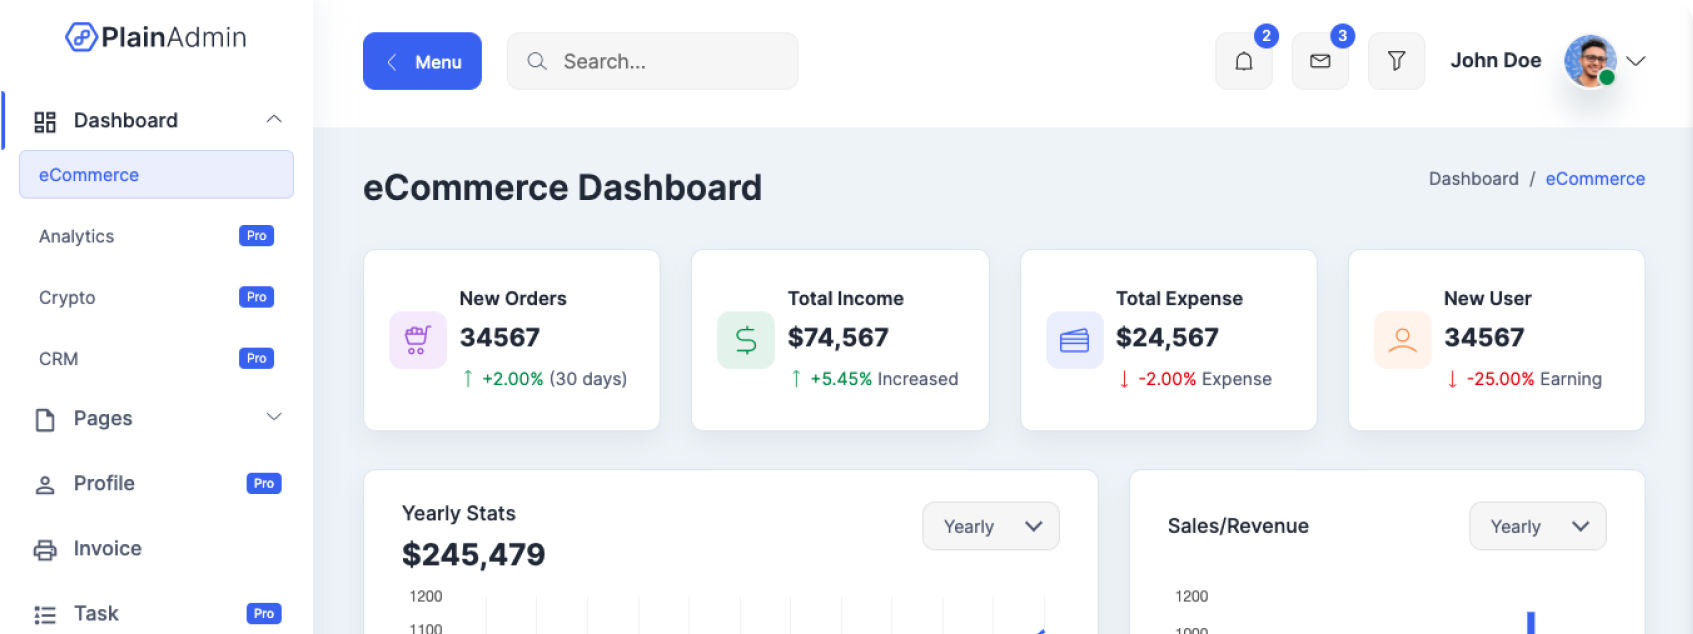
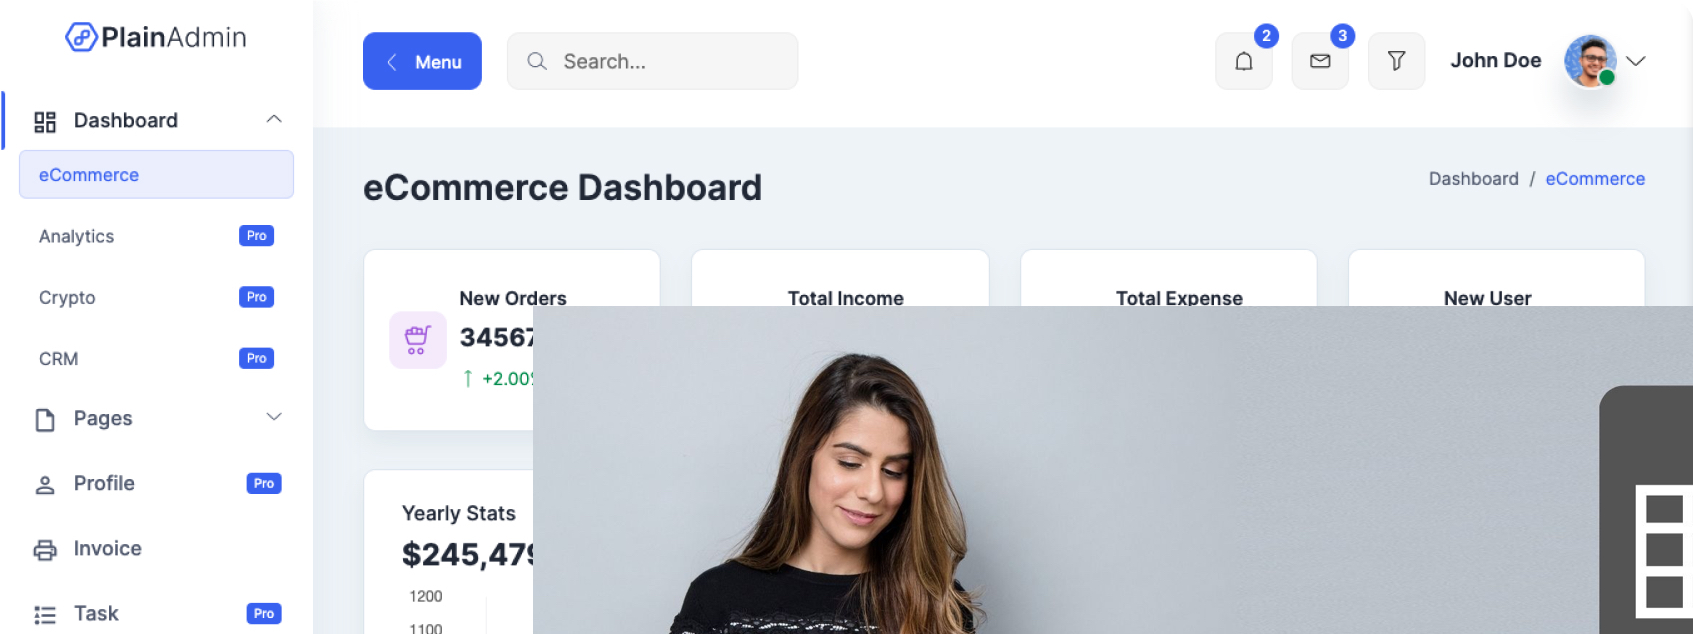
hero

diff --git a/index.html b/index.html
@@ -252,7 +252,7 @@
             >
               <div class="mt-16">
                 <img
-                  src="assets/images/hero/hero-image.jpg"
+                  src="assets/images/hero/hero-image.gif"
                   alt="hero"
                   class="mx-auto max-w-full rounded-t-xl rounded-tr-xl"
                 />
@@ -4832,10 +4832,10 @@
               <ul>
                 <li>
                   <a
-                    href="javascript:void(0)"
+                    href="https://www.taskstore.in/"
                     class="mb-2 inline-block text-base leading-loose text-[#f3f4fe] hover:text-primary"
                   >
-                    LineIcons
+                    TaskStore.in
                   </a>
                 </li>
                 <li>
@@ -4843,7 +4843,7 @@
                     href="javascript:void(0)"
                     class="mb-2 inline-block text-base leading-loose text-[#f3f4fe] hover:text-primary"
                   >
-                    Ecommerce HTML
+                    Ecommerce
                   </a>
                 </li>
                 <li>
@@ -4851,7 +4851,7 @@
                     href="javascript:void(0)"
                     class="mb-2 inline-block text-base leading-loose text-[#f3f4fe] hover:text-primary"
                   >
-                    Ayro UI
+                    Incredibles
                   </a>
                 </li>
                 <li>
@@ -4859,7 +4859,7 @@
                     href="javascript:void(0)"
                     class="mb-2 inline-block text-base leading-loose text-[#f3f4fe] hover:text-primary"
                   >
-                    PlainAdmin
+                    Budget Strategy
                   </a>
                 </li>
               </ul>
@@ -4985,14 +4985,14 @@
             <div class="w-full px-4 md:w-1/3 lg:w-1/2">
               <div class="my-1 flex justify-center md:justify-end">
                 <p class="text-base text-[#f3f4fe]">
-                  Designed and Developed by
+                  Made with ❤ in India
                   <a
                     href="#"
                     rel="nofollow noopner"
                     target="_blank"
                     class="text-primary hover:underline"
                   >
-                    Ambivert Tech 
+                    
                   </a>
                 </p>
               </div>
